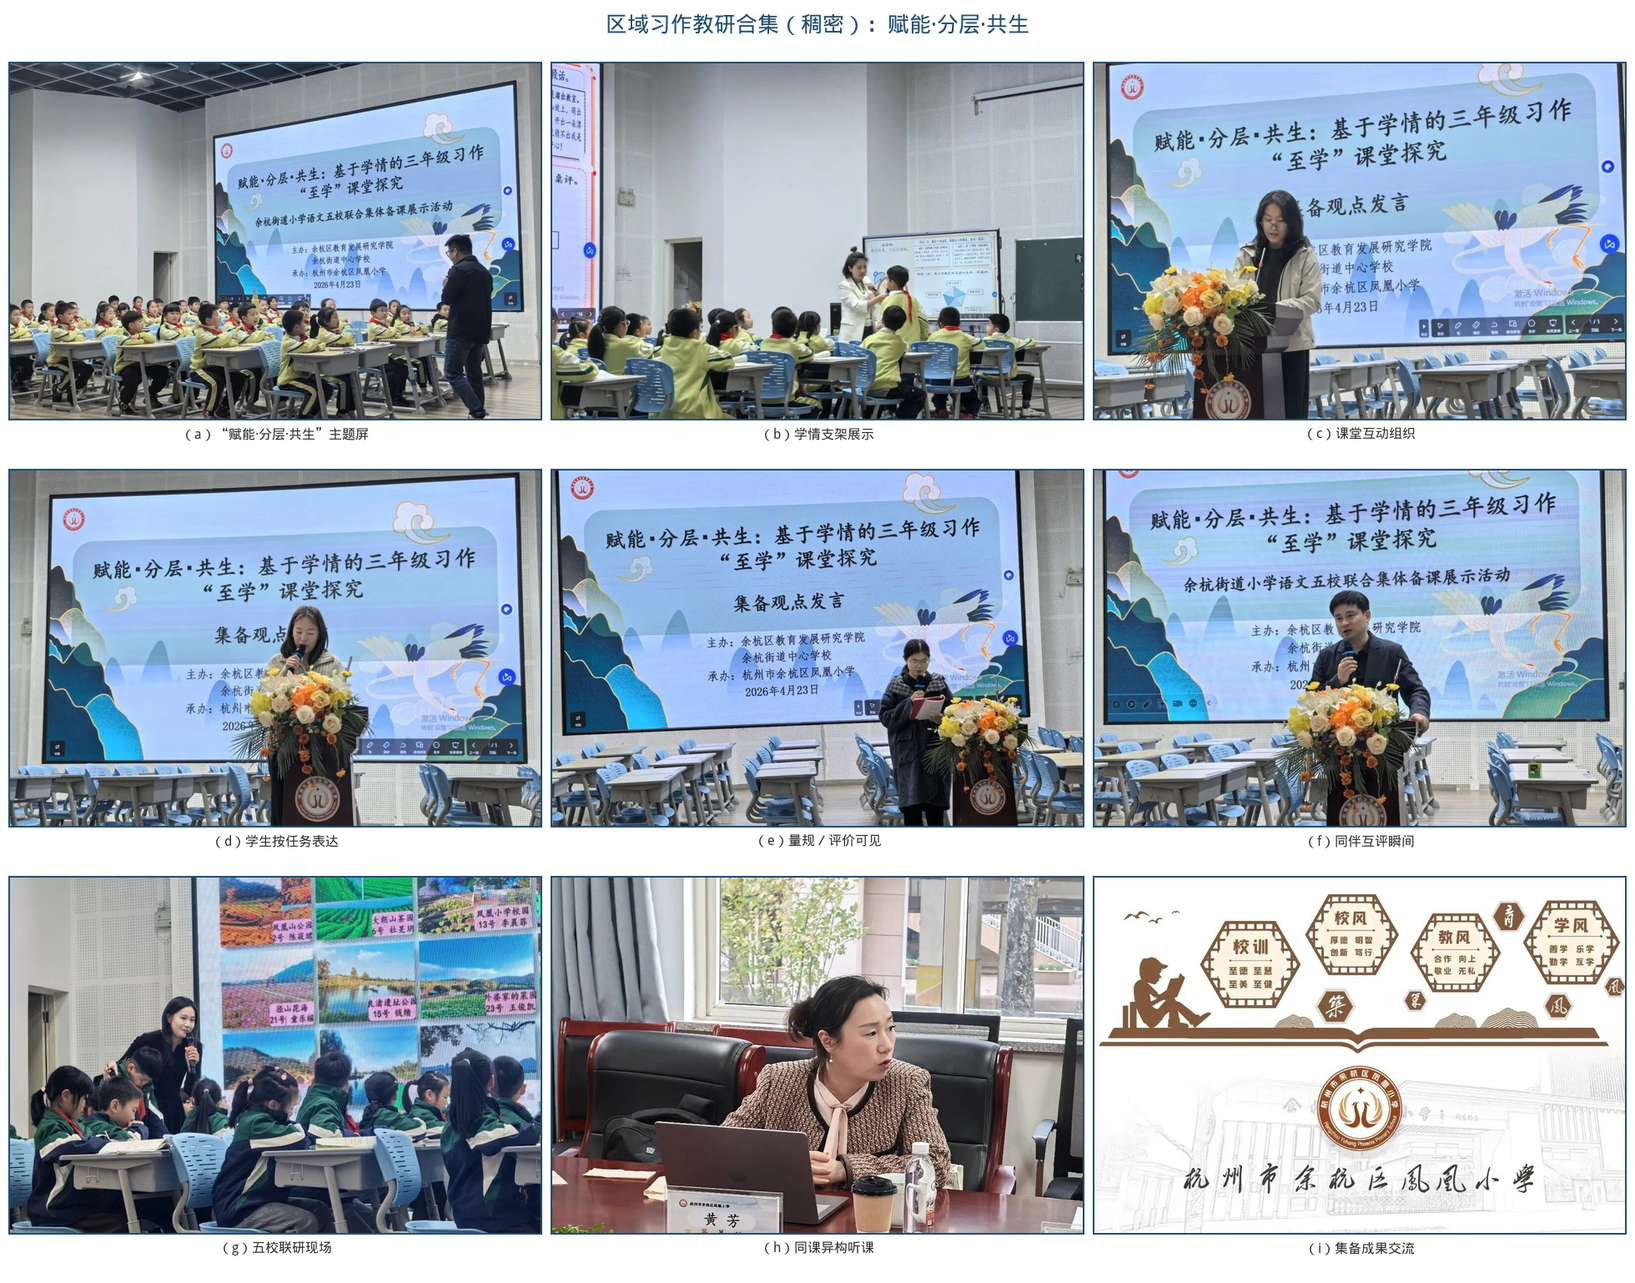
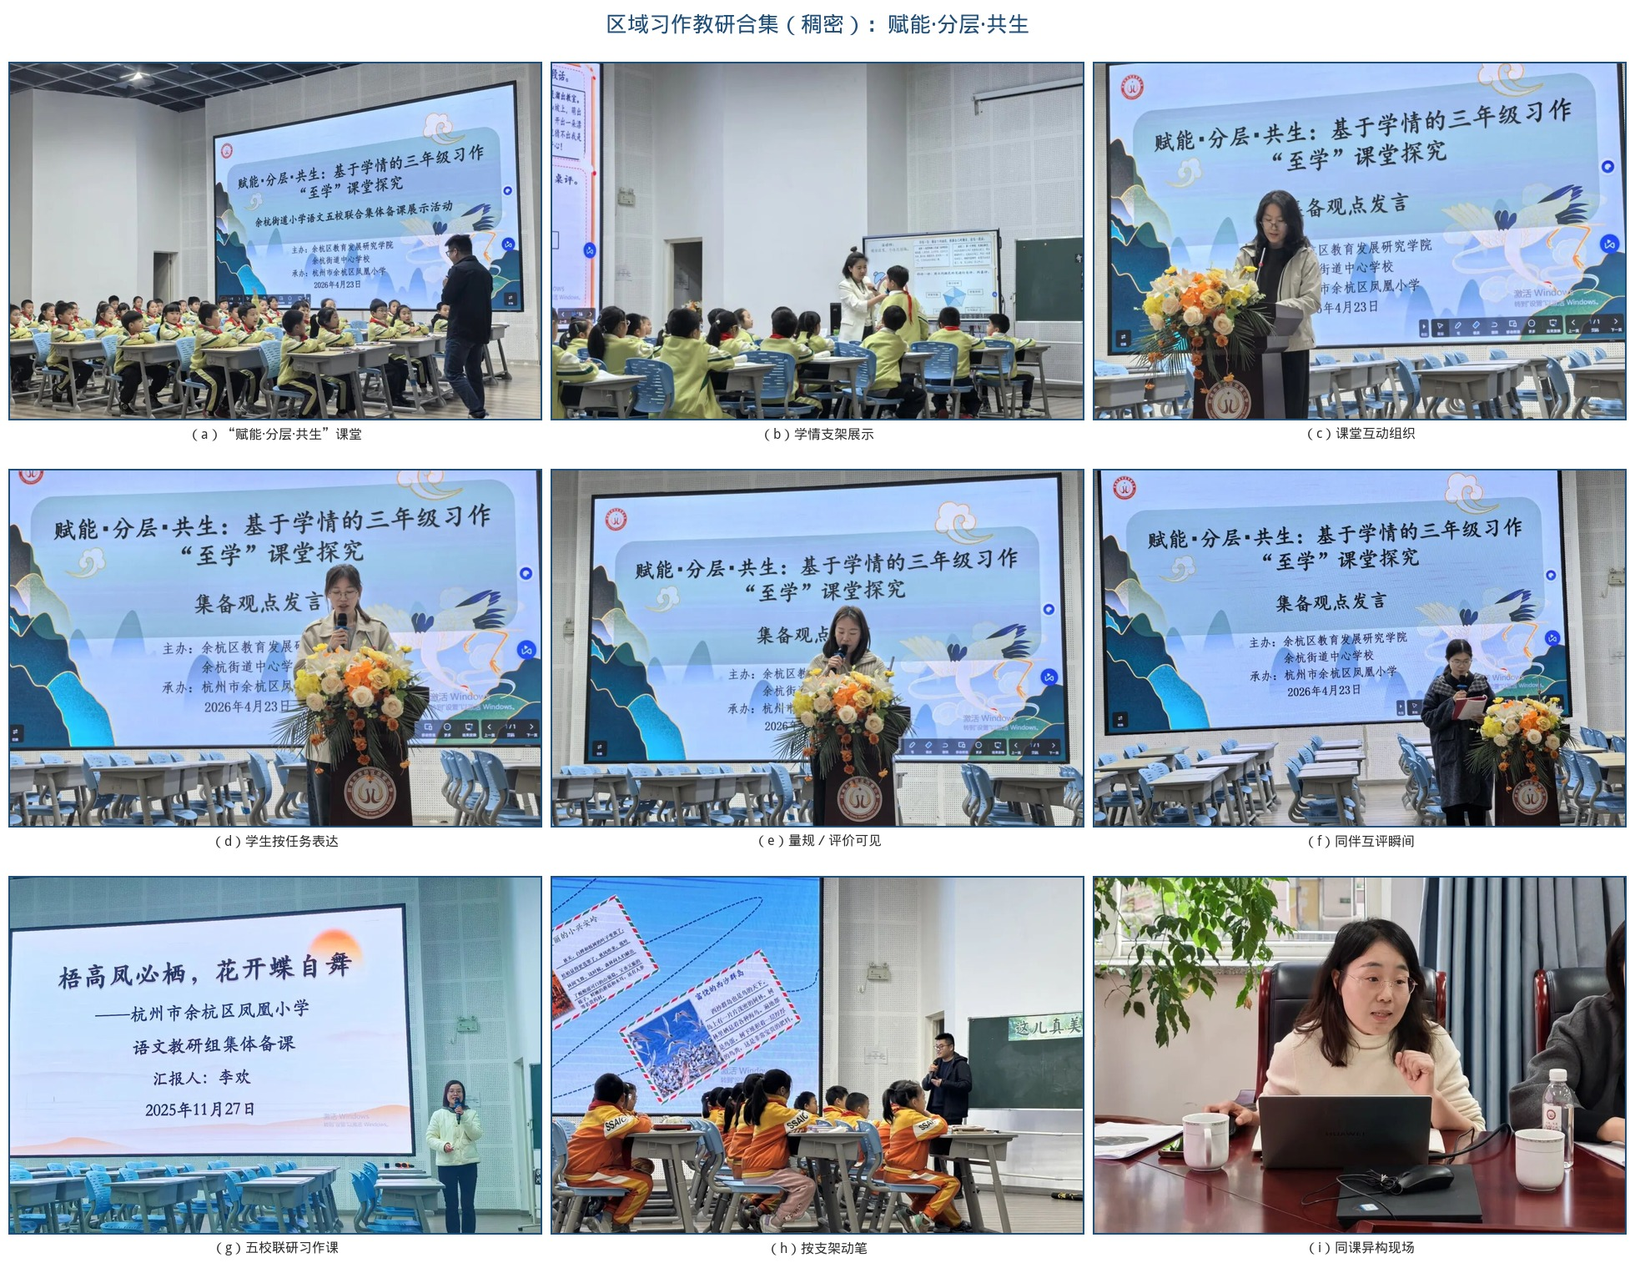
剔除小语名师联盟封面、二维码等无意义图并重拼合集
课堂合集仅保留实拍与观察单/记录卡/现场板书；图7改为六联、图13改为四联；输出 paper_v11。

diff --git a/scripts/compose_dense_plates.py b/scripts/compose_dense_plates.py
@@ -37,16 +37,58 @@ def _fit(path: Path, w: int, h: int, mode: str = "cover") -> Image.Image:
     return im.crop((left, top, left + w, top + h))
 
 
+# 小语名师联盟封面/二维码/装饰，以及推文页眉碎片：无课堂互动信息
+REJECT_FILES = {
+    "即景/01.png", "即景/03.png", "即景/07.png",
+    "古人谈读书/01.png", "古人谈读书/03.png", "古人谈读书/09.png",
+    "我的植物朋友/01.png", "我的植物朋友/07.png", "我的植物朋友/08.png",
+    "第一学段阅读研讨/01.png", "第一学段阅读研讨/02.png", "第一学段阅读研讨/03.png",
+    "第一学段阅读研讨/04.png", "第一学段阅读研讨/05.png", "第一学段阅读研讨/06.png",
+    "第一学段阅读研讨/07.png",  # 听课席，非课堂互动
+    "赋能分层共生集备/01.png", "赋能分层共生集备/02.png", "赋能分层共生集备/03.png",
+    "赋能分层共生集备/04.png", "赋能分层共生集备/05.png", "赋能分层共生集备/06.png",
+    "赋能分层共生集备/07.png", "赋能分层共生集备/08.png",
+    "五校语文集体备课/01.png", "五校语文集体备课/02.png", "五校语文集体备课/03.png",
+    "五校语文集体备课/04.png", "五校语文集体备课/05.png", "五校语文集体备课/06.png",
+    "五校语文集体备课/07.png", "五校语文集体备课/08.png", "五校语文集体备课/09.png",
+    "五校语文集体备课/10.png",
+    "地方课程三秀同台/01.png", "地方课程三秀同台/20.png",
+}
+
+
+def is_rejected(p: Path) -> bool:
+    try:
+        rel = str(p.resolve().relative_to(MAT.resolve())).replace("\\", "/")
+    except Exception:
+        rel = f"{p.parent.name}/{p.name}"
+    if rel in REJECT_FILES:
+        return True
+    try:
+        im = Image.open(p).convert("RGB")
+    except Exception:
+        return True
+    w, h = im.size
+    ar = w / max(h, 1)
+    if ar > 2.2 or ar < 0.4:
+        return True
+    if w * h < 150000:
+        return True
+    # 近单色装饰块
+    sample = im.resize((32, 32))
+    colors = len({px for px in sample.getdata()})
+    if colors < 18:
+        return True
+    return False
+
+
 def score_path(p: Path) -> float:
+    if is_rejected(p):
+        return -1.0
     im = Image.open(p)
     w, h = im.size
     area = w * h
     ar = w / max(h, 1)
     score = float(area)
-    if ar > 2.8 or ar < 0.35:
-        score *= 0.12
-    if area < 120000:
-        score *= 0.1
     if 1.1 <= ar <= 1.6:
         score *= 1.45
     return score
@@ -54,12 +96,12 @@ def score_path(p: Path) -> float:
 
 def pick(album: str, n: int = 6, prefer: list[str] | None = None) -> list[Path]:
     d = MAT / album
-    files = [p for p in d.iterdir() if p.suffix.lower() in {".jpg", ".jpeg", ".png"}]
+    files = [p for p in d.iterdir() if p.suffix.lower() in {".jpg", ".jpeg", ".png"} and not is_rejected(p)]
     if prefer:
         ordered = []
         for name in prefer:
             p = d / name
-            if p.exists():
+            if p.exists() and not is_rejected(p):
                 ordered.append(p)
         rest = sorted([p for p in files if p not in ordered], key=score_path, reverse=True)
         return (ordered + rest)[:n]
@@ -101,8 +143,18 @@ def dense_grid(
     return dest
 
 
+def resolve_src(album: str, fname: str) -> Path | None:
+    if album == "real":
+        p = ROOT / "figures" / "real" / fname
+    else:
+        p = MAT / album / fname
+    if p.exists() and (album == "real" or not is_rejected(p)):
+        return p
+    return None
+
+
 def stage_copies() -> dict:
-    """Copy selected materials into figures/dense with stable names."""
+    """仅收录课堂实拍与真实材料，排除小语名师联盟封面/二维码/装饰图。"""
     DENSE.mkdir(parents=True, exist_ok=True)
     mapping = {
         "scene": [
@@ -117,37 +169,34 @@ def stage_copies() -> dict:
             ("古人谈读书", "02.jpeg", "guren_wide"),
         ],
         "scaffold": [
-            ("即景", "01.png", "jing_title"),
-            ("即景", "03.png", "jing_board"),
-            ("即景", "05.jpeg", "jing_card"),
-            ("即景", "07.png", "jing_req"),
-            ("我的植物朋友", "01.png", "plant_title"),
-            ("我的植物朋友", "07.png", "plant_board"),
-            ("我的植物朋友", "08.png", "plant_card"),
-            ("古人谈读书", "01.png", "guren_title"),
-            ("古人谈读书", "03.png", "guren_board"),
+            ("real", "jing_card.jpg", "jing_card"),
+            ("real", "jing_essay.jpg", "jing_essay"),
+            ("即景", "04.jpeg", "jing_board_live"),
+            ("real", "plant_card.jpg", "plant_card"),
+            ("real", "plant_board.jpg", "plant_board_live"),
+            ("real", "plant_share.jpg", "plant_share"),
+            ("real", "guren_text.jpg", "guren_text"),
+            ("real", "guren_mic.jpg", "guren_mic"),
+            ("real", "guren_peer.jpg", "guren_peer"),
         ],
         "break": [
             ("即景", "02.jpeg", "b1"),
             ("即景", "04.jpeg", "b2"),
             ("即景", "06.jpeg", "b3"),
-            ("即景", "05.jpeg", "b4"),
-            ("即景", "03.png", "b5"),
-            ("即景", "07.png", "b6"),
-            ("即景", "01.png", "b7"),
-            ("赋能分层共生集备", "12.jpeg", "b8"),
-            ("赋能分层共生集备", "13.jpeg", "b9"),
+            ("real", "jing_card.jpg", "b4"),
+            ("real", "jing_essay.jpg", "b5"),
+            ("real", "jing_req.jpg", "b6"),
         ],
         "write": [
             ("我的植物朋友", "02.jpeg", "w1"),
             ("我的植物朋友", "03.jpeg", "w2"),
             ("我的植物朋友", "05.jpeg", "w3"),
             ("我的植物朋友", "06.jpeg", "w4"),
-            ("我的植物朋友", "07.png", "w5"),
-            ("我的植物朋友", "08.png", "w6"),
+            ("real", "plant_card.jpg", "w5"),
+            ("real", "plant_board.jpg", "w6"),
             ("第一学段阅读研讨", "11.png", "w7"),
             ("第一学段阅读研讨", "12.png", "w8"),
-            ("赋能分层共生集备", "14.jpeg", "w9"),
+            ("real", "plant_share.jpg", "w9"),
         ],
         "voice": [
             ("古人谈读书", "02.jpeg", "v1"),
@@ -156,44 +205,36 @@ def stage_copies() -> dict:
             ("古人谈读书", "06.jpeg", "v4"),
             ("古人谈读书", "07.jpeg", "v5"),
             ("古人谈读书", "08.jpeg", "v6"),
-            ("五校语文集体备课", "11.jpeg", "v7"),
-            ("五校语文集体备课", "12.jpeg", "v8"),
-            ("五校语文集体备课", "14.jpeg", "v9"),
+            ("real", "guren_mic.jpg", "v7"),
+            ("real", "guren_peer.jpg", "v8"),
+            ("real", "here_beauty.jpg", "v9"),
         ],
         "prep": [
             ("赋能分层共生集备", "11.jpeg", "p1"),
             ("赋能分层共生集备", "12.jpeg", "p2"),
             ("赋能分层共生集备", "13.jpeg", "p3"),
-            ("赋能分层共生集备", "15.jpeg", "p4"),
-            ("赋能分层共生集备", "16.jpeg", "p5"),
-            ("赋能分层共生集备", "18.jpeg", "p6"),
-            ("五校语文集体备课", "13.jpeg", "p7"),
-            ("五校语文集体备课", "15.jpeg", "p8"),
-            ("五校语文集体备课", "16.jpeg", "p9"),
+            ("赋能分层共生集备", "14.jpeg", "p4"),
+            ("赋能分层共生集备", "15.jpeg", "p5"),
+            ("赋能分层共生集备", "16.jpeg", "p6"),
+            ("五校语文集体备课", "11.jpeg", "p7"),
+            ("五校语文集体备课", "12.jpeg", "p8"),
+            ("五校语文集体备课", "14.jpeg", "p9"),
         ],
         "low": [
             ("第一学段阅读研讨", "08.png", "l1"),
             ("第一学段阅读研讨", "09.jpeg", "l2"),
             ("第一学段阅读研讨", "10.png", "l3"),
             ("第一学段阅读研讨", "11.png", "l4"),
-            ("第一学段阅读研讨", "12.png", "l5"),
-            ("第一学段阅读研讨", "07.png", "l6"),
-            ("第一学段阅读研讨", "01.png", "l7"),
-            ("地方课程三秀同台", "15.jpeg", "l8"),
-            ("地方课程三秀同台", "16.jpeg", "l9"),
         ],
     }
     staged = {}
     for group, specs in mapping.items():
         paths = []
         for album, fname, alias in specs:
-            src = MAT / album / fname
-            if not src.exists():
-                # fallback to best scored
-                alts = pick(album, 1)
-                if not alts:
-                    continue
-                src = alts[0]
+            src = resolve_src(album, fname)
+            if src is None:
+                print("skip missing/rejected", album, fname)
+                continue
             dest = DENSE / f"{group}_{alias}{src.suffix.lower()}"
             shutil.copy(src, dest)
             paths.append(dest)
@@ -214,26 +255,25 @@ def compose_dense() -> None:
                cell=(620, 400))
 
     labels = [
-        "（a）《即景》课题页", "（b）《即景》板书支架", "（c）日落观察记录单",
-        "（d）教材要求上屏", "（e）《我的植物朋友》课题", "（f）板书：写清楚／有感受",
-        "（g）植物记录卡细目", "（h）《古人谈读书》课题", "（i）“熟读深思”板书",
+        "（a）日落观察记录单", "（b）学生片段上屏评改", "（c）《即景》现场板书",
+        "（d）植物记录卡细目", "（e）《我的植物朋友》现场板书", "（f）记录卡进入公共视野",
+        "（g）语录与注释同屏", "（h）学生持麦解释", "（i）同桌互读互评",
     ]
     dense_grid(list(zip(staged["scaffold"], labels)), "plate_scaffold.jpg",
-               "真实教学材料合集（稠密）：板书、记录单与记录卡", ncols=3,
+               "真实教学材料合集（稠密）：观察单、记录卡与现场板书", ncols=3,
                cell=(620, 380), fit="contain")
 
     labels = [
-        "（a）现场：屏幕与板书并置", "（b）学生面向讲台写作", "（c）片段交流／评改",
-        "（d）观察记录单物证", "（e）板书“顺序／变化”", "（f）要求页可见支架",
-        "（g）课题导入页", "（h）分层任务进入公共屏", "（i）习作支架课堂流转",
+        "（a）现场全景", "（b）屏幕与真实板书并置", "（c）学生面向讲台写作",
+        "（d）观察记录单物证", "（e）片段上屏对照评改", "（f）习作要求进入公共屏",
     ]
     dense_grid(list(zip(staged["break"], labels)), "plate_break.jpg",
                "《即景》破程合集（稠密）：观察所得进课堂，终稿仍由学生完成", ncols=3)
 
     labels = [
         "（a）课堂全景", "（b）教师组织分享", "（c）学生举卡可见",
-        "（d）同伴交流瞬间", "（e）板书支架", "（f）记录卡细节",
-        "（g）低段角色互动", "（h）低段横向问答预备", "（i）分层习作任务屏",
+        "（d）同伴交流瞬间", "（e）记录卡细节", "（f）现场板书支架",
+        "（g）低段角色互动", "（h）低段横向问答预备", "（i）记录卡进入公共视野",
     ]
     dense_grid(list(zip(staged["write"], labels)), "plate_write.jpg",
                "化卡为文与低段横向通道合集（稠密）", ncols=3)
@@ -241,26 +281,26 @@ def compose_dense() -> None:
     labels = [
         "（a）课堂全景", "（b）同桌／小组活动", "（c）持麦解释",
         "（d）教师侧立组织", "（e）语录文本上屏", "（f）学生面向同伴表达",
-        "（g）例文／支架上屏", "（h）按支架动笔", "（i）习作同课异构现场",
+        "（g）持麦表达特写", "（h）同桌互读", "（i）《这儿真美》按支架动笔",
     ]
     dense_grid(list(zip(staged["voice"], labels)), "plate_voice.jpg",
                "复权合集（稠密）：把问和写交还给学生", ncols=3)
 
     labels = [
-        "（a）“赋能·分层·共生”主题屏", "（b）学情支架展示", "（c）课堂互动组织",
+        "（a）“赋能·分层·共生”课堂", "（b）学情支架展示", "（c）课堂互动组织",
         "（d）学生按任务表达", "（e）量规／评价可见", "（f）同伴互评瞬间",
-        "（g）五校联研现场", "（h）同课异构听课", "（i）集备成果交流",
+        "（g）五校联研习作课", "（h）按支架动笔", "（i）同课异构现场",
     ]
     dense_grid(list(zip(staged["prep"], labels)), "plate_prep.jpg",
                "区域习作教研合集（稠密）：赋能·分层·共生", ncols=3)
 
     labels = [
-        "（a）字卡／谜语投屏", "（b）低段课堂就座", "（c）举手应答",
-        "（d）角色扮演", "（e）学生互问预备", "（f）研讨听课席",
-        "（g）课例文本页", "（h）地方课程展示互动", "（i）公开课互动侧面",
+        "（a）字卡／谜语投屏", "（b）低段课堂就座",
+        "（c）举手应答", "（d）角色扮演",
     ]
     dense_grid(list(zip(staged["low"], labels)), "plate_low.jpg",
-               "低段阅读研讨合集（稠密）：情境打开与通道仍偏放射", ncols=3)
+               "低段阅读研讨合集：情境打开与通道仍偏放射", ncols=2,
+               cell=(720, 460))
 
     meta = {k: [str(p.relative_to(ROOT)) for p in v] for k, v in staged.items()}
     (DENSE / "manifest.json").write_text(json.dumps(meta, ensure_ascii=False, indent=2), encoding="utf-8")

diff --git a/图像素材来源.md b/图像素材来源.md
@@ -1,14 +1,16 @@
 # 图像素材来源清单（稠密化更新）
 
-论文图注只写教学动作，不写执教者个人身份。实拍图主要来自 `materials/img/`（公开微信推文截图去重后入库），稠密拼版由 `scripts/compose_dense_plates.py` 生成。
+论文图注只写教学动作，不写执教者个人身份。实拍图来自 `materials/img/` 与 `figures/real/`，拼版由 `scripts/compose_dense_plates.py` 生成。
 
 | 图号 | 合集 | 主要相册 | 来源URL |
 | --- | --- | --- | --- |
-| 图2、图13 | 课堂现场／低段研讨（各9联） | 第一学段阅读研讨；即景；我的植物朋友；古人谈读书；地方课程三秀同台 | https://mp.weixin.qq.com/s/2fOMQ-dxbjOAd5m6iDIwoQ 等 |
-| 图4、图7 | 材料／《即景》破程（各9联） | 即景；赋能分层共生集备 | https://mp.weixin.qq.com/s/RHZ6QC417lQDYHWVjg2tYQ ；https://mp.weixin.qq.com/s/FZoW48ckq8jINXduCuInyw |
-| 图8 | 化卡为文（9联） | 我的植物朋友；第一学段阅读研讨 | https://mp.weixin.qq.com/s/v5sMHaH7byxH1EKt26elmA |
-| 图9 | 复权（9联） | 古人谈读书；五校语文集体备课 | https://mp.weixin.qq.com/s/1JsoPGP5beyHc7oIzXki-Q ；https://mp.weixin.qq.com/s/TIYPfaH6pv-NiNH56_xwlQ |
-| 图14 | 区域习作教研（9联） | 赋能分层共生集备；五校语文集体备课 | https://mp.weixin.qq.com/s/FZoW48ckq8jINXduCuInyw |
+| 图2、图13 | 课堂现场／低段研讨 | 第一学段阅读研讨；即景；我的植物朋友；古人谈读书 | https://mp.weixin.qq.com/s/2fOMQ-dxbjOAd5m6iDIwoQ |
+| 图4、图7 | 材料／《即景》破程 | 即景课堂实拍、观察单、学生片段 | https://mp.weixin.qq.com/s/RHZ6QC417lQDYHWVjg2tYQ |
+| 图8 | 化卡为文 | 我的植物朋友；第一学段阅读研讨 | https://mp.weixin.qq.com/s/v5sMHaH7byxH1EKt26elmA |
+| 图9 | 复权 | 古人谈读书；五校语文集体备课 | https://mp.weixin.qq.com/s/1JsoPGP5beyHc7oIzXki-Q ；https://mp.weixin.qq.com/s/TIYPfaH6pv-NiNH56_xwlQ |
+| 图14 | 区域习作教研 | 赋能分层共生集备；五校语文集体备课 | https://mp.weixin.qq.com/s/FZoW48ckq8jINXduCuInyw |
 | 图12（a） | 朗读反馈柱图 | 京师附小公开报道 | https://www.beijing.gov.cn/ywdt/gqrd/202512/t20251224_4360512.html |
 
-结构示意图（`fig01`–`fig28`、`plate02/05/09/10/flow`）仍为示意/工具图。数学、科学相册仅作跨学科互动侧面，未写入正文主图注。
+**不入正文的图像：** 小语名师联盟活动封面、公众号二维码、【板书设计】示意图、推文页眉装饰、空教室与听课席。
+
+结构示意图（`fig01`–`fig28`、`plate02/05/09/10/flow`）仍为示意/工具图。

diff --git a/失衡·校准·均衡_AI赋能小学语文三元协同师生互动优化策略.md b/失衡·校准·均衡_AI赋能小学语文三元协同师生互动优化策略.md
@@ -73,7 +73,7 @@
 
 ![](figures/plate_scaffold.jpg)
 
-**图4 真实教学材料合集（稠密九联）：《即景》《我的植物朋友》《古人谈读书》的课题页、板书、观察单与记录卡**
+**图4 真实教学材料合集（稠密）：观察记录单、学生片段、现场板书、记录卡与持麦／互读**
 
 图4中的材料并不空洞。《即景》板书将“按一定顺序写”“写出动态变化”写在黑板上；观察记录单用简笔画记下太阳西偏、晚霞变色、渐渐落下；植物记录卡将看、闻、摸和感受分开写；《古人谈读书》板书将态度与方法收在“熟读深思”。这些都是可观察的支架。问题在于：支架上了屏、上了板，若座位和发言方向不变，课堂仍可能停留在听讲。因此，策略不能只谈“多用AI”，而应按通道、权责、边界拾级校准。
 
@@ -117,7 +117,7 @@
 
 ![](figures/plate_break.jpg)
 
-**图7 《即景》破程合集（稠密九联）：现场、观察单、要求页、板书与分层任务屏**
+**图7 《即景》破程合集（稠密）：现场、观察单、片段评改与习作要求上屏**
 
 #### 2. 全员入场：分层驱动，主体得以全面进入
 空间上打开还不够，任务也要分层，使不同学生都有事可做。低年级宜同桌互说互查；高年级宜小组兼组际。工具进课堂要有顺序：先明确任务，再决定何时调用，何时必须回到文本和同伴。
@@ -255,7 +255,7 @@
 
 ![](figures/plate_low.jpg)
 
-**图13 低段阅读研讨合集（稠密九联）：字卡投屏、举手应答、角色扮演与听课席结构**
+**图13 低段阅读研讨合集：字卡投屏、举手应答与角色扮演**
 
 区域“赋能·分层·共生”习作集备与五校联研现场，把支架分层、互评可见做成可观察的教研动作，见图14。
 

diff --git a/图表与工具清单.md b/图表与工具清单.md
@@ -70,16 +70,18 @@ flowchart LR
 | AI1–AI5 | 生成、归集、提示、反馈、可视化 |
 | 互动链 | T→S；T→AI→S；S→AI→S；S→S；T→S→T |
 
-## 稠密化实拍合集（v10）
+## 稠密化实拍合集（已剔除无意义图）
 
 | 序号 | 图名 | 联数 | 来源相册 |
 | --- | --- | --- | --- |
-| 图2 | 课堂现场合集（稠密） | 9 | 第一学段／即景／植物／古人 |
-| 图4 | 真实教学材料合集（稠密） | 9 | 即景／植物／古人材料页 |
-| 图7 | 《即景》破程合集（稠密） | 9 | 即景＋赋能分层 |
-| 图8 | 化卡为文合集（稠密） | 9 | 植物＋低段 |
-| 图9 | 复权合集（稠密） | 9 | 古人＋五校备课 |
-| 图13 | 低段阅读研讨合集（稠密） | 9 | 第一学段＋地方课程 |
-| 图14 | 区域习作教研合集（稠密） | 9 | 赋能分层＋五校备课 |
+| 图2 | 课堂现场合集 | 9 | 第一学段／即景／植物／古人（课堂实拍） |
+| 图4 | 真实教学材料合集 | 9 | 观察单、记录卡、现场板书、持麦／互读 |
+| 图7 | 《即景》破程合集 | 6 | 即景课堂＋观察单／片段 |
+| 图8 | 化卡为文合集 | 9 | 植物课堂＋记录卡＋低段角色 |
+| 图9 | 复权合集 | 9 | 古人课堂＋《这儿真美》动笔 |
+| 图13 | 低段阅读研讨合集 | 4 | 第一学段课堂实拍 |
+| 图14 | 区域习作教研合集 | 9 | 赋能分层＋五校备课课堂 |
 
-生成脚本：`scripts/compose_dense_plates.py`；单图目录：`figures/dense/`。
+**已剔除、不入正文：** 小语名师联盟活动封面、公众号二维码、【板书设计】示意图、推文装饰条、空教室、听课席等。
+
+生成脚本：`scripts/compose_dense_plates.py`；合集输出：`figures/plate_*.jpg`。
